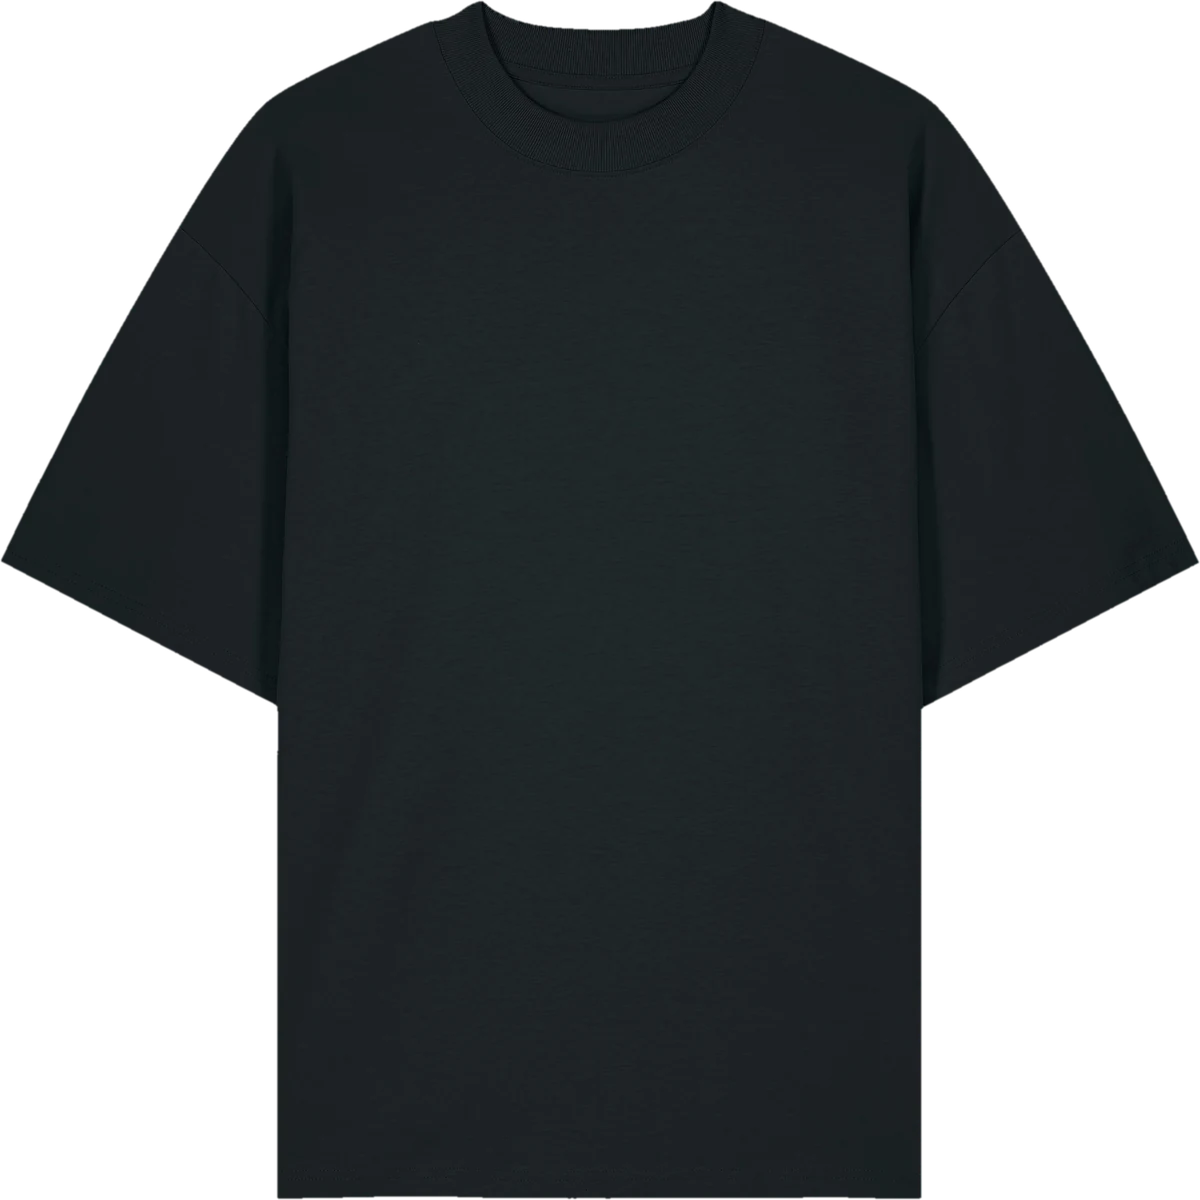
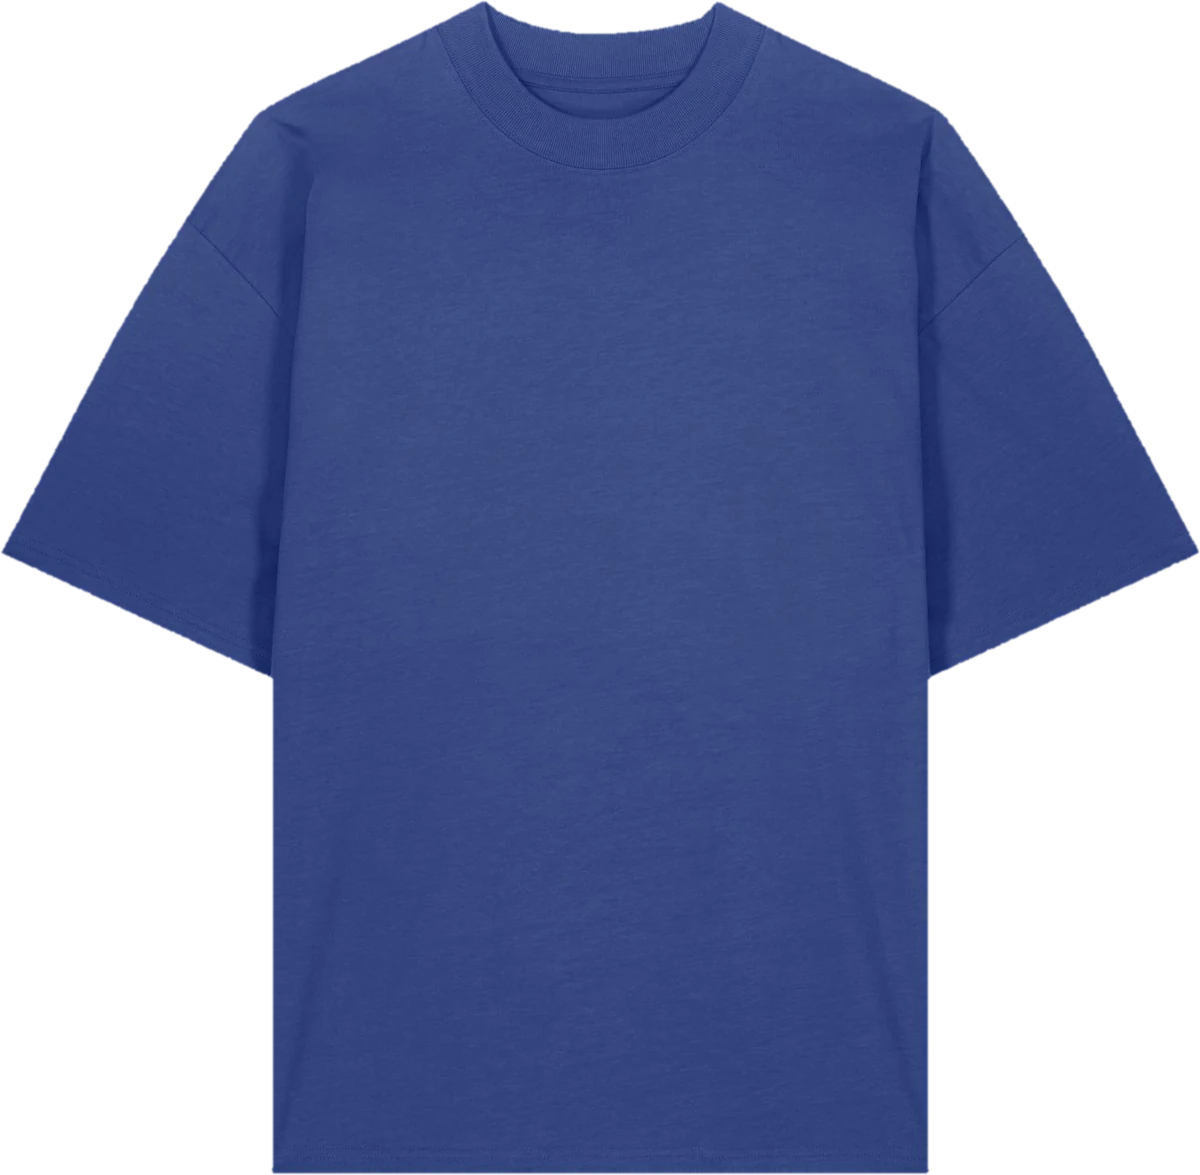
Prueba portada v4: camiseta azul y sudadera jade con fondo a juego, títulos encima del producto
Claude-Session: https://claude.ai/code/session_01NDAE58QQbqA2YowYez4XZN

diff --git a/index.html b/index.html
@@ -102,17 +102,17 @@ button{font-family:inherit}
 .herob .btn:active{transform:scale(.97)}
 /* Escenario del producto */
 .stage{position:relative;height:clamp(420px,62vh,600px);container-type:inline-size}
-.words{position:absolute;inset:0;display:grid;place-items:center;pointer-events:none}
-.words span{grid-area:1/1;font:800 min(11.5rem,calc(158cqw / var(--n)))/.8 "Bricolage Grotesque",sans-serif;letter-spacing:-.04em;color:rgba(255,255,255,.1);white-space:nowrap;opacity:0;transform:translateY(40px);transition:opacity .6s ease,transform .9s var(--ease-io)}
+.words{position:absolute;left:0;right:0;top:0;height:32%;display:grid;place-items:start center;pointer-events:none;overflow:hidden;padding-top:2px}
+.words span{grid-area:1/1;font:800 min(8rem,calc(128cqw / var(--n)))/1 "Bricolage Grotesque",sans-serif;letter-spacing:-.04em;color:rgba(255,255,255,.14);white-space:nowrap;opacity:0;transform:translateY(40px);transition:opacity .6s ease,transform .9s var(--ease-io)}
 .words span.is-on{opacity:1;transform:none}
 .words span.is-off{opacity:0;transform:translateY(-40px)}
-.floor{position:absolute;left:22%;right:22%;bottom:6%;height:7%;border-radius:50%;background:radial-gradient(closest-side,rgba(0,0,0,.32),transparent);filter:blur(6px)}
-.slide{position:absolute;inset:0;margin:0;display:flex;flex-direction:column;align-items:center;justify-content:center;opacity:0;visibility:hidden;transform:translate3d(24%,2%,0) rotate(9deg) scale(.9);transition:transform .95s var(--ease-io),opacity .55s ease,visibility 0s .95s}
+.floor{position:absolute;left:24%;right:24%;bottom:3%;height:6%;border-radius:50%;background:radial-gradient(closest-side,rgba(0,0,0,.32),transparent);filter:blur(6px)}
+.slide{position:absolute;left:0;right:0;top:19%;bottom:3%;margin:0;display:flex;flex-direction:column;align-items:center;justify-content:center;opacity:0;visibility:hidden;transform:translate3d(24%,2%,0) rotate(9deg) scale(.9);transition:transform .95s var(--ease-io),opacity .55s ease,visibility 0s .95s}
 .slide.is-on{opacity:1;visibility:visible;transform:none;transition:transform .95s var(--ease-io),opacity .7s ease .1s,visibility 0s}
 .slide.is-out{opacity:0;visibility:visible;transform:translate3d(-26%,4%,0) rotate(-11deg) scale(.86);transition:transform .95s var(--ease-io),opacity .5s ease}
 .prod{position:relative;height:var(--h);aspect-ratio:var(--ar);max-width:92%;animation:hfloat 6s ease-in-out infinite;will-change:transform}
 .prod img{display:block;width:100%;height:100%;object-fit:contain;filter:drop-shadow(0 26px 30px rgba(0,0,0,.28))}
-.slide figcaption{position:absolute;right:0;bottom:4px;font-weight:600;font-size:.95rem;color:rgba(255,255,255,.9);opacity:0;transform:translateY(8px);transition:opacity .4s ease,transform .5s var(--ease-out)}
+.slide figcaption{position:absolute;right:0;bottom:-2px;font-weight:600;font-size:.95rem;color:rgba(255,255,255,.9);opacity:0;transform:translateY(8px);transition:opacity .4s ease,transform .5s var(--ease-out)}
 .slide.is-on figcaption{opacity:1;transform:none;transition-delay:.45s}
 @keyframes hfloat{0%,100%{transform:translateY(0)}50%{transform:translateY(-10px)}}
 .hplay{position:absolute;right:24px;bottom:22px;width:34px;height:34px;border-radius:50%;border:0;background:rgba(255,255,255,.12);color:#fff;display:grid;place-items:center;cursor:pointer;opacity:.7;transition:opacity .2s ease}
@@ -508,7 +508,7 @@ img.pack{object-fit:contain!important;padding:6%}
 
 <!-- =============== INICIO =============== -->
 <div id="view-home">
-  <div class="herob" id="inicio" style="--hbg:#982626">
+  <div class="herob" id="inicio" style="--hbg:#26325D">
   <div class="wrap">
     <div class="hero">
       <div class="htext">
@@ -525,12 +525,12 @@ img.pack{object-fit:contain!important;padding:6%}
           <span class="is-on" style="--n:8">CAMISETA</span><span style="--n:8">SUDADERA</span><span style="--n:5">BIDÓN</span><span style="--n:7">LANYARD</span><span style="--n:5">GORRA</span><span style="--n:9">BOLÍGRAFO</span>
         </div>
         <div class="floor" aria-hidden="true"></div>
-        <figure class="slide is-on" data-bg="#982626" style="--h:82%;--ar:1200/1200">
-          <div class="prod"><img src="/portada/camiseta.webp" width="1200" height="1200" alt="Camiseta oversize Blaster 2.0 negra" fetchpriority="high"></div>
+        <figure class="slide is-on" data-bg="#26325D" style="--h:92%;--ar:1200/1175">
+          <div class="prod"><img src="/portada/camiseta.webp" width="1200" height="1200" alt="Camiseta oversize Blaster 2.0 azul" fetchpriority="high"></div>
           <figcaption>Camiseta oversize</figcaption>
         </figure>
-        <figure class="slide" data-bg="#1F3A63" style="--h:90%;--ar:1002/1200">
-          <div class="prod"><img src="/portada/sudadera.webp" width="1002" height="1200" alt="Sudadera con capucha oversize Slammer 2.0 azul" loading="lazy"></div>
+        <figure class="slide" data-bg="#39744F" style="--h:94%;--ar:1051/1200">
+          <div class="prod"><img src="/portada/sudadera.webp" width="1002" height="1200" alt="Sudadera con capucha oversize Slammer 2.0 verde jade" loading="lazy"></div>
           <figcaption>Sudadera con capucha oversize</figcaption>
         </figure>
         <figure class="slide" data-bg="#7A6A12" style="--h:80%;--ar:149/541">
